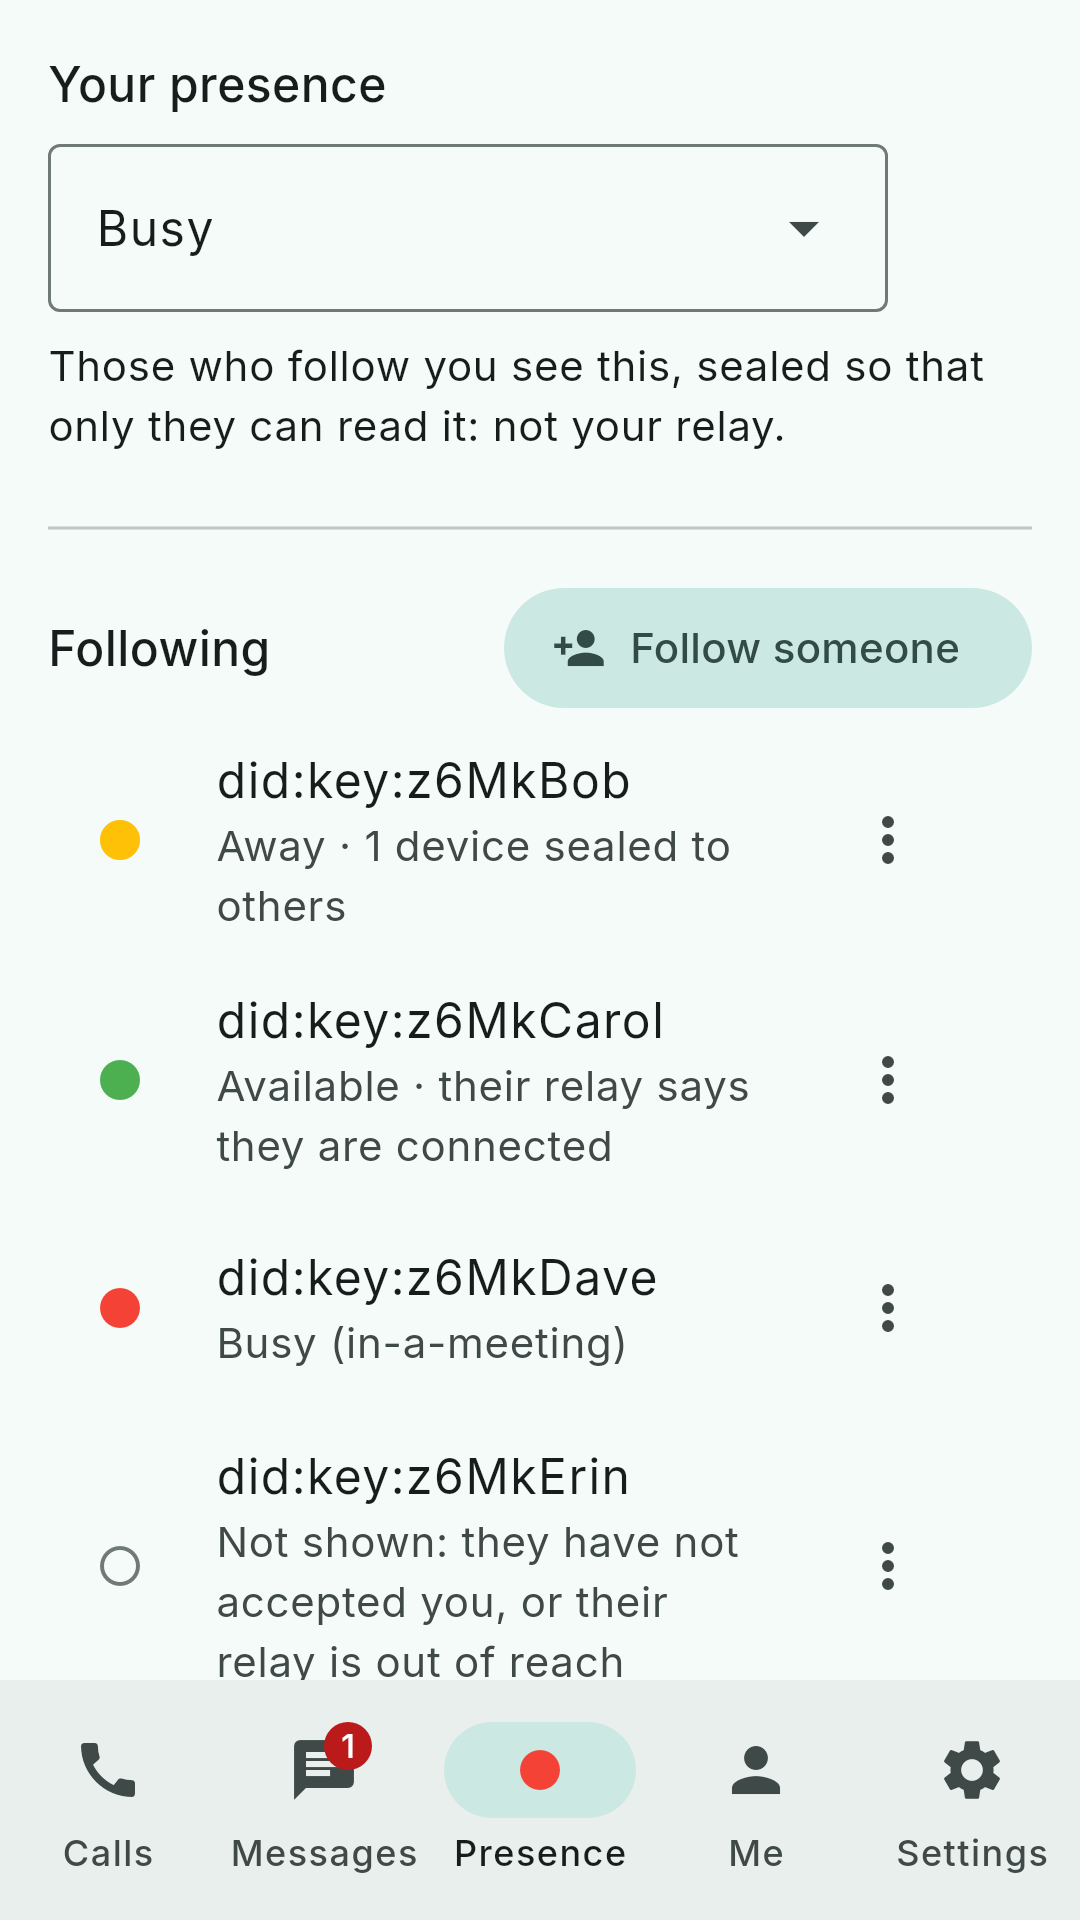
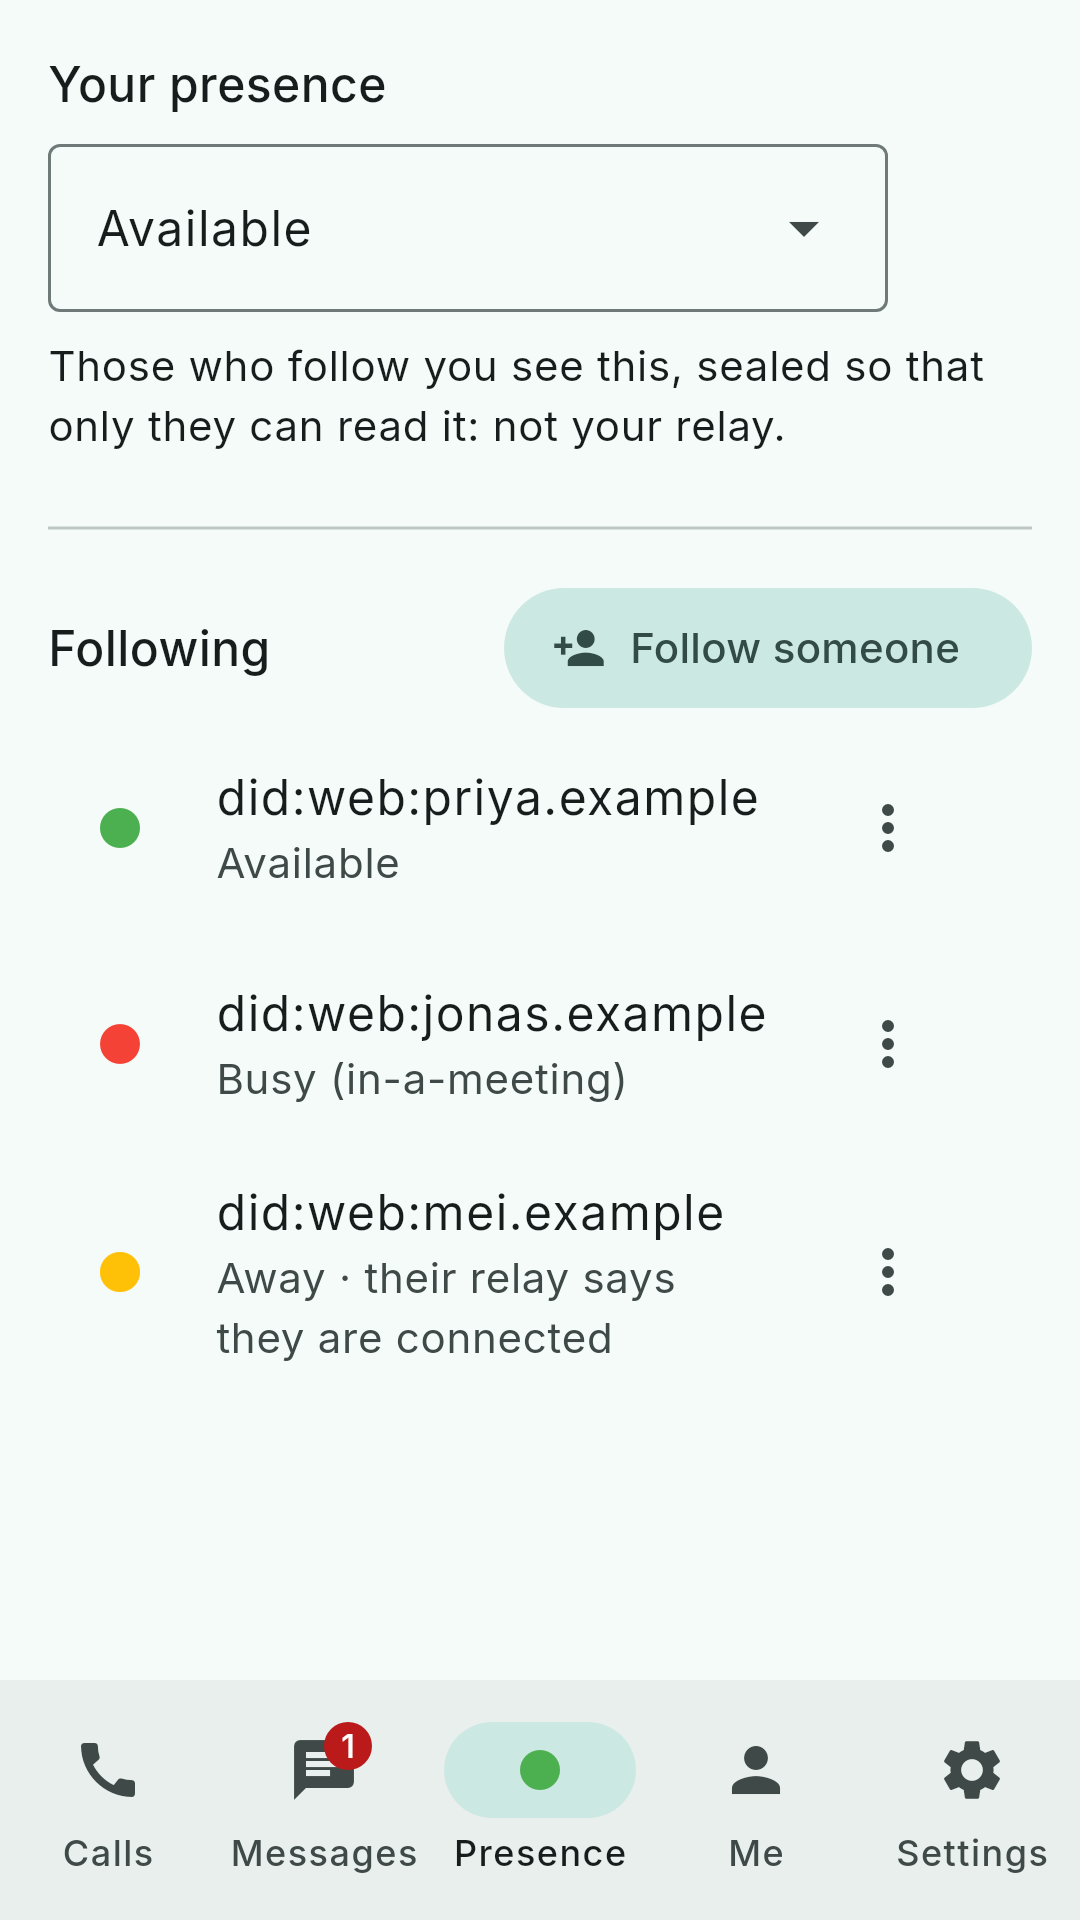
Store screenshots from a fixture of their own: people with names, a short conversation
app/test_store/fixture.json, by hand in the shapes of test/fixtures: Sam,
calling and messaging Priya, Jonas and Mei on domains of their own
(did:web), so calls show names and conversations and presence show short
identities, not did:key strings. The 20 screenshots are redrawn from it.

store/README.md names what they still show that is the app's: no contact
names in conversations and presence, a call's raw reason code, a presence
note's token.

diff --git a/app/test_store/screenshots_test.dart b/app/test_store/screenshots_test.dart
@@ -1,5 +1,5 @@
-// The store screenshots (app plan A7; store/README.md), drawn from the goldens' fixtures with the app's own fonts at the
-// sizes the stores ask for, light theme. Not part of `flutter test`; made with, from app/:
+// The store screenshots (app plan A7; store/README.md), drawn from fixture.json beside this file (people with names, a
+// short conversation) with the app's own fonts at the sizes the stores ask for, light theme. Not part of `flutter test`; made with, from app/:
 //   flutter test test_store/screenshots_test.dart --update-goldens
 // into ../store/screenshots/<device>-<n>-<screen>.png.
 
@@ -13,10 +13,12 @@ import 'package:flutter/material.dart';
 import 'package:flutter_test/flutter_test.dart';
 
 import '../test/fake_client.dart';
-import '../test/goldens/goldens_test.dart' show loadFonts, seeded;
+import '../test/goldens/goldens_test.dart' show loadFonts;
 
-Map<String, dynamic> _fixture(String name) =>
-    jsonDecode(File('test/fixtures/$name.json').readAsStringSync()) as Map<String, dynamic>;
+final _store = jsonDecode(File('test_store/fixture.json').readAsStringSync()) as Map<String, dynamic>;
+
+/// A fresh copy of the store fixture's [key], as each test changes what it is given.
+Map<String, dynamic> _fixture(String key) => jsonDecode(jsonEncode(_store[key])) as Map<String, dynamic>;
 
 /// Each store's device: its name, its size in logical pixels, and its pixel ratio.
 const devices = <(String, Size, double)>[
@@ -52,17 +54,17 @@ void main() {
         addTearDown(tester.platformDispatcher.clearAllTestValues);
         final client = FakeClient()
           ..answer = (cmd) => switch (cmd['command']) {
-            'thread' => _fixture('messages')['thread'] as Map<String, dynamic>,
+            'thread' => _fixture('thread'),
             _ => {'response': 'ok'},
           };
         final controller = Controller(client, SettingsStore(dir));
         if (tab != null) {
-          await tester.runAsync(() => SettingsStore(dir).save(_fixture('settings')['settings'] as Map<String, dynamic>));
+          await tester.runAsync(() => SettingsStore(dir).save(_fixture('settings')));
         }
         await tester.pumpWidget(DsipApp(controller: controller));
         await tester.runAsync(controller.load);
         if (tab != null) {
-          client.push(seeded());
+          client.push(_fixture('state'));
           await tester.pumpAndSettle();
           await tester.tap(find.text(tab).last);
         }

diff --git a/store/README.md b/store/README.md
@@ -11,8 +11,10 @@ submitted anywhere yet.
 - `screenshots/`: the store screenshots, drawn from the same fixtures as the app's goldens at the sizes the stores ask
   for. Made with `flutter test ../store/screenshots_test.dart --update-goldens` from `app/` (not part of the test run).
 
-The screenshots show the test fixtures as they are (identities like `did:key:z6MkBob`, a reason code like
-`user.hangup`). For a submission, a fixture of its own with people's names and a short conversation would read better.
+The screenshots are drawn from `app/test_store/fixture.json`: people on domains of their own, a short conversation.
+Edit it for other content. What they show that is the app's, not the fixture's: conversations and presence name people
+by their identity, as the app has no contact names yet; a call that ended shows its reason code (`user.hangup`); and a
+presence note shows its token (`in-a-meeting`).
 
 Before submitting, fill in what is marked `<…>`: the support and privacy URLs and a contact address.
 
